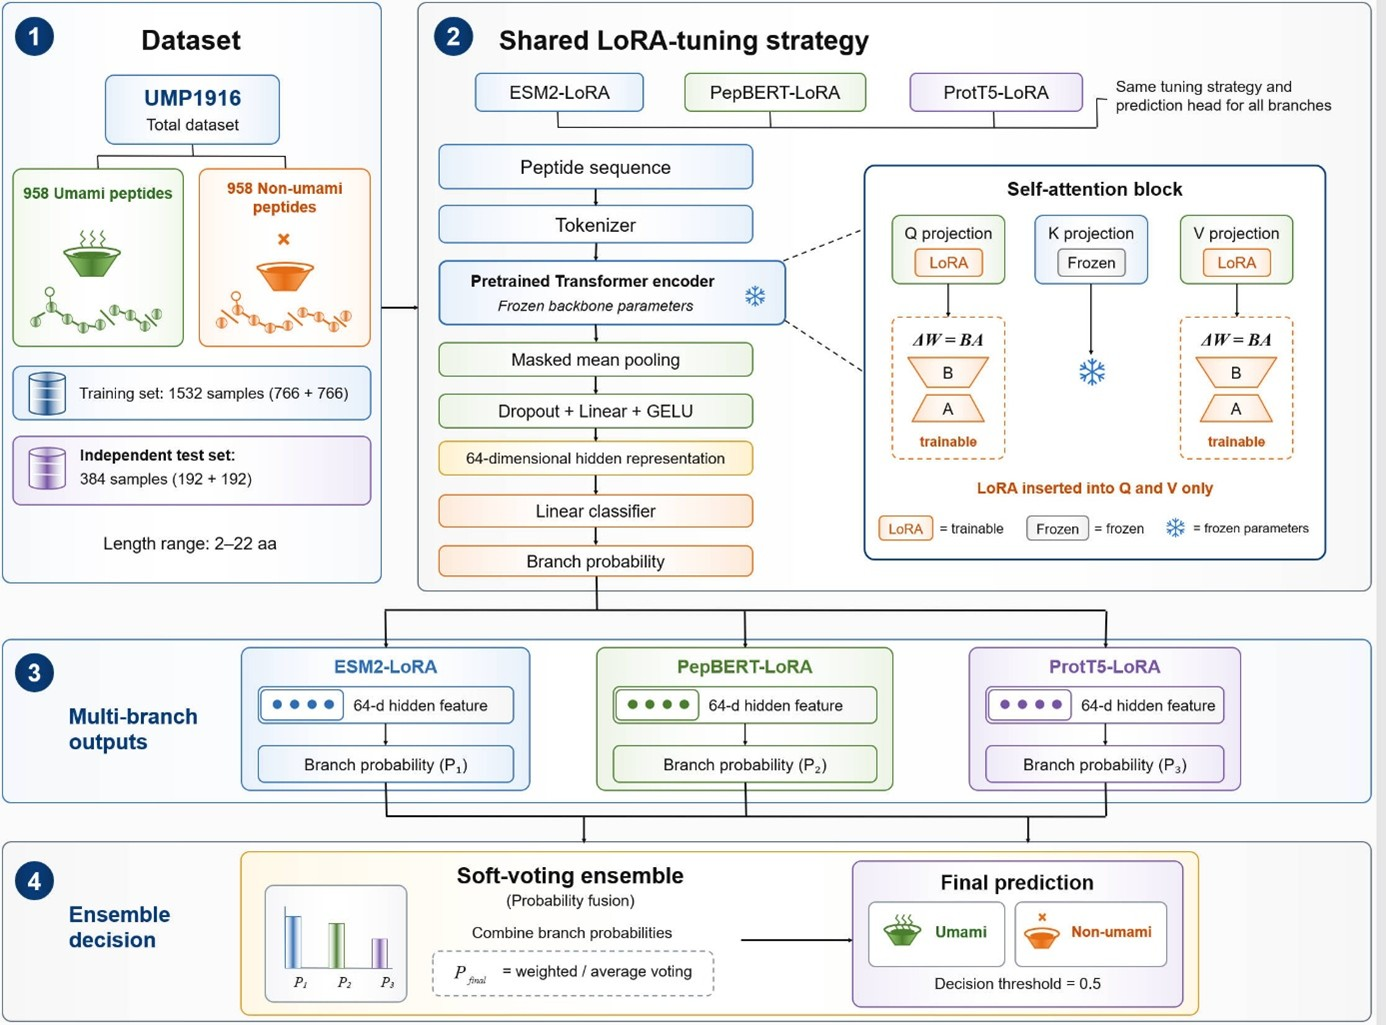
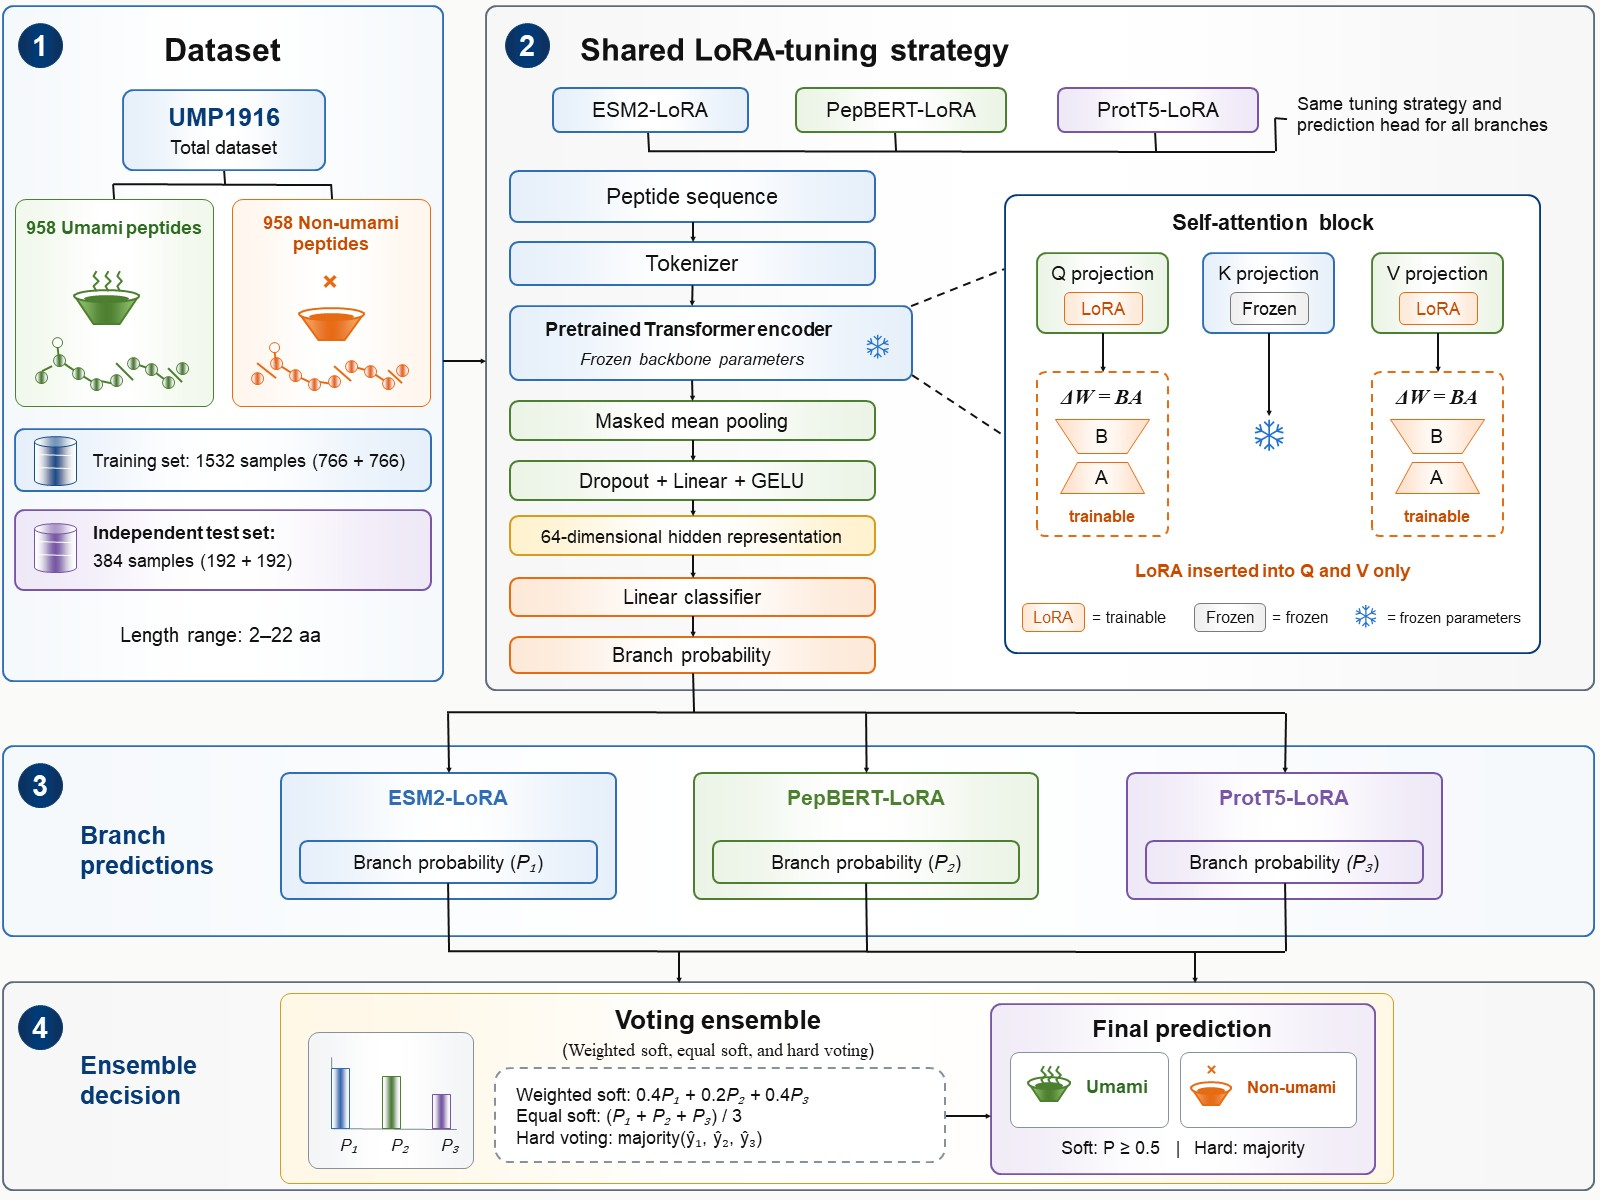
Update model architecture figures and prediction domain checks

Changed region(s): [[0.0, 0.0, 1.0, 0.999], [0.9618, 0.6244, 1.0, 0.7805], [0.0, 0.7493, 0.031, 0.7805]]

diff --git a/app.py b/app.py
@@ -75,6 +75,10 @@ MODEL_DISPLAY_NAMES = {
 PREDICTION_CHUNK_SIZE = 100
 PREDICTION_REQUEST_TIMEOUT = 600
 PREDICTION_MAX_ATTEMPTS = 2
+PREDICTION_LENGTH_LIMITS = {
+    "bitter": (2, 20),
+    "umami": (2, 24),
+}
 METHOD_PROBABILITY_LABELS = {
     "Bitter_Stacking": "BPPred probability",
     "ESM2_t33_MLP": "ESM2-MLP probability",
@@ -1000,6 +1004,10 @@ def clean_sequence(seq: str) -> str:
     return seq
 
 
+def prediction_length_limits(task: str) -> Tuple[int, int]:
+    return PREDICTION_LENGTH_LIMITS.get(task, (2, 80))
+
+
 def validate_sequence(seq: str, min_len: int = 2, max_len: int = 80) -> Tuple[bool, str]:
     seq = clean_sequence(seq)
     if not seq:
@@ -1007,7 +1015,7 @@ def validate_sequence(seq: str, min_len: int = 2, max_len: int = 80) -> Tuple[bo
     if len(seq) < min_len:
         return False, f"Sequence is too short: current length is {len(seq)}, minimum length is {min_len}."
     if len(seq) > max_len:
-        return False, f"Sequence is too long: current length is {len(seq)}, maximum recommended length is {max_len}."
+        return False, f"Sequence is outside the model domain: current length is {len(seq)}, allowed length is {min_len}-{max_len} aa."
     if not AA_PATTERN.match(seq):
         return False, "Sequence contains non-standard amino acid characters. Supported letters: A C D E F G H I K L M N P Q R S T V W Y."
     return True, "OK"
@@ -1819,6 +1827,8 @@ def prediction_page(task: str) -> None:
     )
     default_method_index = 3
     task_name = "bitter peptide" if is_bitter else "umami peptide"
+    min_len, max_len = prediction_length_limits(task)
+    domain_text = f"{model_name} model domain: {min_len}-{max_len} aa"
     subtitle = (
         "BPPred combines ESM-2 sequence representations, amino acid descriptors, and FCFP4 fingerprints through a probability-stacking classifier. Submit individual or batch peptide sequences for binary prediction and downloadable results."
         if is_bitter else
@@ -1900,7 +1910,7 @@ def prediction_page(task: str) -> None:
             height=330,
             placeholder=placeholder,
             key=text_key,
-            help="Use FASTA records or one peptide sequence per line. Only the 20 standard amino acid letters are accepted.",
+            help=f"Use FASTA records or one peptide sequence per line. Only the 20 standard amino acid letters are accepted. {domain_text}.",
         )
 
     with right:
@@ -1949,7 +1959,7 @@ def prediction_page(task: str) -> None:
 
         valid, invalid = [], []
         for s in seqs:
-            ok, msg = validate_sequence(s)
+            ok, msg = validate_sequence(s, min_len=min_len, max_len=max_len)
             if ok:
                 valid.append(s)
             else:
@@ -1957,6 +1967,9 @@ def prediction_page(task: str) -> None:
 
         if not valid:
             st.error("No valid peptide sequence found. Paste FASTA/list input or upload a CSV, FASTA, or TXT file.")
+            if invalid:
+                with st.expander("Invalid sequences", expanded=True):
+                    st.dataframe(pd.DataFrame(invalid), use_container_width=True, hide_index=True)
         else:
             run_name = MODEL_DISPLAY_NAMES.get(selected_method, selected_method or model_name)
             with st.spinner(f"Running {run_name} prediction for {len(valid)} valid sequence(s)..."):
@@ -1992,7 +2005,7 @@ def prediction_page(task: str) -> None:
     st.markdown(
         f"""
         <div class="note-box">
-            <strong>Input note.</strong> {model_name} accepts FASTA records, one peptide sequence per line, TXT files, and CSV files. CSV files should include a <code>sequence</code> column; otherwise the first column is used. Supported amino acid letters are A C D E F G H I K L M N P Q R S T V W Y.
+            <strong>Input note.</strong> {model_name} accepts FASTA records, one peptide sequence per line, TXT files, and CSV files. CSV files should include a <code>sequence</code> column; otherwise the first column is used. Supported amino acid letters are A C D E F G H I K L M N P Q R S T V W Y. The allowed sequence length for this model is <strong>{min_len}-{max_len} aa</strong>; sequences outside this domain are listed as invalid and are not sent for prediction.
             <br><strong>Result note.</strong> Probability ranges from 0 to 1. A sequence is labeled as {task_name} when its probability is greater than or equal to the selected threshold.
         </div>
         """,
@@ -3971,7 +3984,7 @@ def help_page() -> None:
             """,
             unsafe_allow_html=True,
         )
-        st.caption("Valid sequences contain 2-80 residues selected from A, C, D, E, F, G, H, I, K, L, M, N, P, Q, R, S, T, V, W, and Y.")
+        st.caption("Valid sequences must use the 20 standard amino acid letters. BPPred accepts 2-20 aa peptides, and UPPred accepts 2-24 aa peptides; out-of-domain sequences are not submitted for prediction.")
 
     with result_tab:
         st.markdown(
